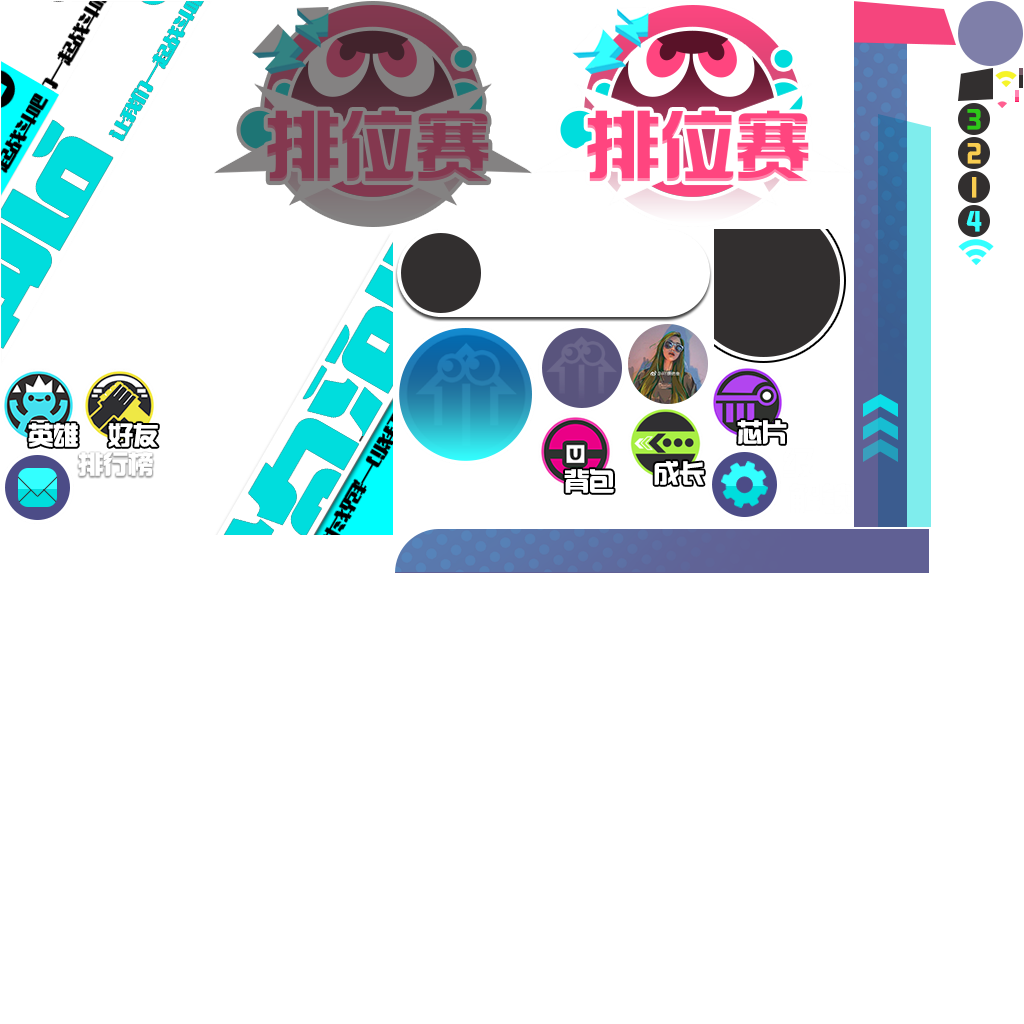
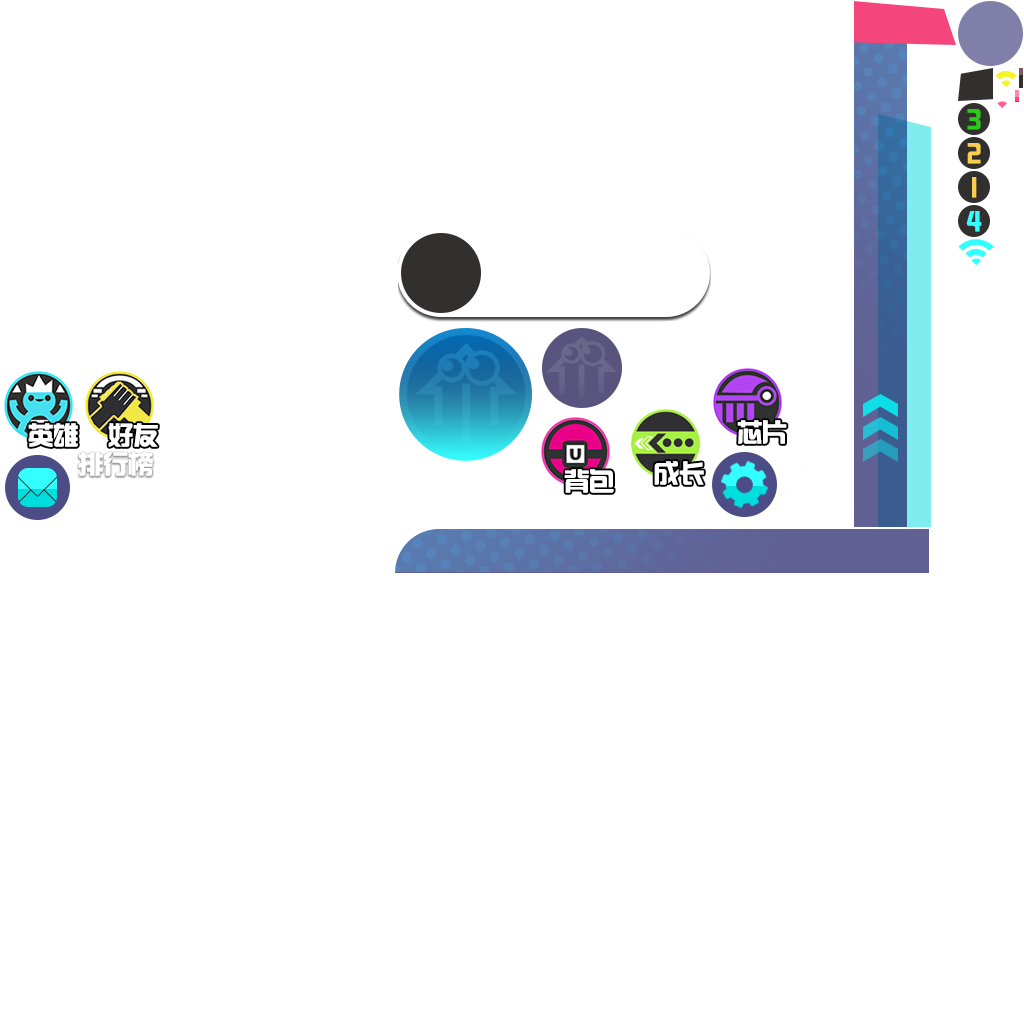
删除无用资源

diff --git a/code/client/bin-debug/game/views/loading/MainLoadingUI.js b/code/client/bin-debug/game/views/loading/MainLoadingUI.js
@@ -23,6 +23,7 @@ var MainLoadingUI = (function (_super) {
     }
     MainLoadingUI.prototype.childrenCreated = function () {
         _super.prototype.childrenCreated.call(this);
+        this.m_pLogoImg.visible = false;
         this.m_pProgressImg.mask = this.m_pProgressMask;
         this.m_pProgressMask.width = 0;
         this.m_pStateLbl.text = "首次进游戏需加载更多资源，疯狂载入中...";

diff --git a/code/client/src/game/views/loading/MainLoadingUI.ts b/code/client/src/game/views/loading/MainLoadingUI.ts
@@ -30,6 +30,7 @@ class MainLoadingUI extends core.EUIComponent implements core.ILoadingUI {
     }
     protected childrenCreated(): void {
         super.childrenCreated();
+        this.m_pLogoImg.visible = false;
         this.m_pProgressImg.mask = this.m_pProgressMask;
         this.m_pProgressMask.width = 0;
         this.m_pStateLbl.text = "首次进游戏需加载更多资源，疯狂载入中...";

diff --git a/code/client/bin-debug/game/views/login/LoginUI.js b/code/client/bin-debug/game/views/login/LoginUI.js
@@ -15,6 +15,7 @@ var LoginUI = (function (_super) {
     }
     LoginUI.prototype.onShow = function () {
         _super.prototype.onShow.call(this);
+        this.m_pLogo.visible = false;
         this.m_pAccount.text = name;
         this.onAdaptive();
     };

diff --git a/code/client/src/game/views/login/LoginUI.ts b/code/client/src/game/views/login/LoginUI.ts
@@ -22,6 +22,7 @@ class LoginUI extends core.EUIComponent {
 	}
 	protected onShow(): void {
 		super.onShow();
+		this.m_pLogo.visible = false;
 		this.m_pAccount.text = name;
 		this.onAdaptive();
 	}
